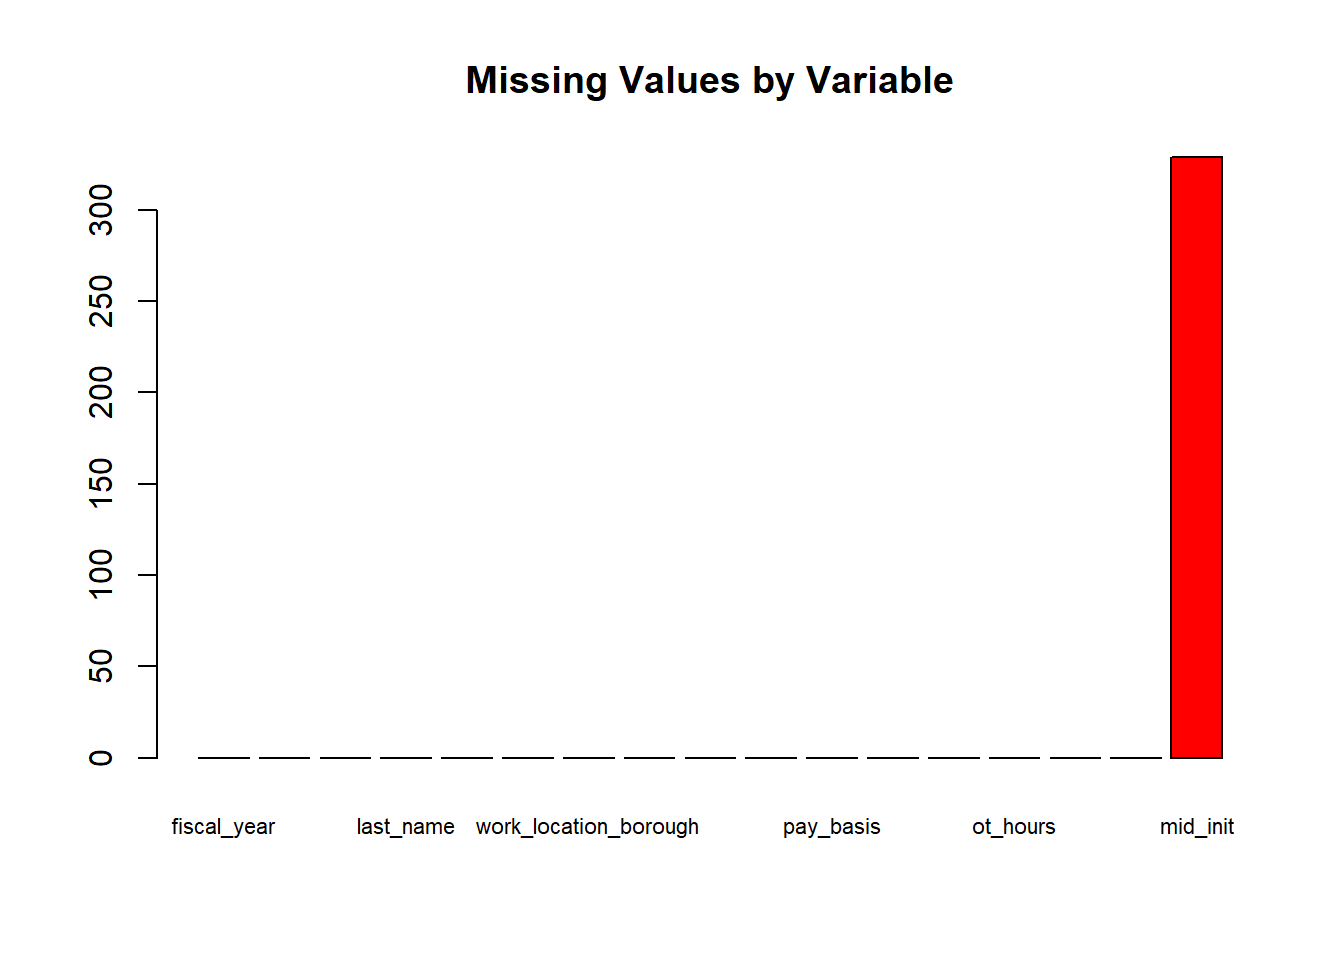
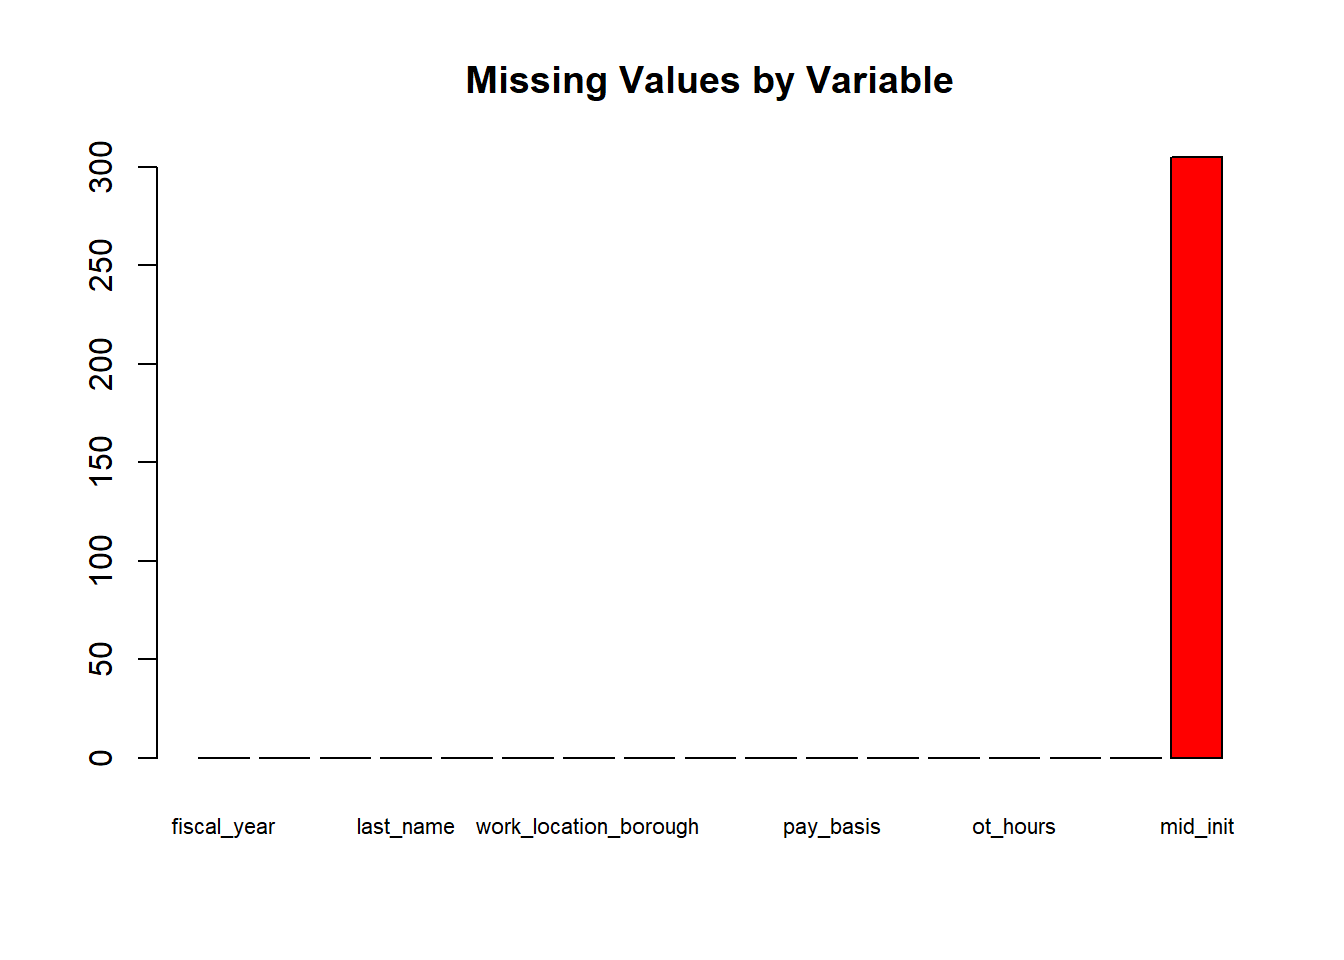
Changed Plots in Data Section

Changed region(s): [[0.0625, 0.1562, 0.0938, 0.5312], [0.0625, 0.6562, 0.0938, 0.7188], [0.0625, 0.5625, 0.0938, 0.625]]

diff --git a/docs/data.html b/docs/data.html
@@ -2,7 +2,7 @@
 <html xmlns="http://www.w3.org/1999/xhtml" lang="en" xml:lang="en"><head>
 
 <meta charset="utf-8">
-<meta name="generator" content="quarto-1.3.433">
+<meta name="generator" content="quarto-1.3.353">
 
 <meta name="viewport" content="width=device-width, initial-scale=1.0, user-scalable=yes">
 
@@ -91,8 +91,7 @@ pre > code.sourceCode > span > a:first-child::before { text-decoration: underlin
     "search-more-matches-text": "more matches in this document",
     "search-clear-button-title": "Clear",
     "search-detached-cancel-button-title": "Cancel",
-    "search-submit-button-title": "Submit",
-    "search-label": "Search"
+    "search-submit-button-title": "Submit"
   }
 }</script>
 
@@ -111,7 +110,7 @@ pre > code.sourceCode > span > a:first-child::before { text-decoration: underlin
       <nav class="quarto-page-breadcrumbs" aria-label="breadcrumb"><ol class="breadcrumb"><li class="breadcrumb-item"><a href="./data.html"><span class="chapter-number">2</span>&nbsp; <span class="chapter-title">Data</span></a></li></ol></nav>
       <a class="flex-grow-1" role="button" data-bs-toggle="collapse" data-bs-target="#quarto-sidebar,#quarto-sidebar-glass" aria-controls="quarto-sidebar" aria-expanded="false" aria-label="Toggle sidebar navigation" onclick="if (window.quartoToggleHeadroom) { window.quartoToggleHeadroom(); }">      
       </a>
-      <button type="button" class="btn quarto-search-button" aria-label="" onclick="window.quartoOpenSearch();">
+      <button type="button" class="btn quarto-search-button" aria-label="Search" onclick="window.quartoOpenSearch();">
         <i class="bi bi-search"></i>
       </button>
     </div>
@@ -125,7 +124,7 @@ pre > code.sourceCode > span > a:first-child::before { text-decoration: underlin
     <div class="sidebar-title mb-0 py-0">
       <a href="./">NYC Payroll Data Analysis</a> 
         <div class="sidebar-tools-main">
-    <a href="https://github.com/atharva-011/NYCPayroll" rel="" title="Source Code" class="quarto-navigation-tool px-1" aria-label="Source Code"><i class="bi bi-github"></i></a>
+    <a href="https://github.com/atharva-011/NYCPayroll" title="Source Code" class="quarto-navigation-tool px-1" aria-label="Source Code"><i class="bi bi-github"></i></a>
 </div>
     </div>
       </div>
@@ -210,7 +209,9 @@ pre > code.sourceCode > span > a:first-child::before { text-decoration: underlin
 <summary>Code</summary>
 <div class="sourceCode cell-code" id="cb1"><pre class="sourceCode r code-with-copy"><code class="sourceCode r"><span id="cb1-1"><a href="#cb1-1" aria-hidden="true" tabindex="-1"></a><span class="fu">library</span>(httr)</span>
 <span id="cb1-2"><a href="#cb1-2" aria-hidden="true" tabindex="-1"></a><span class="fu">library</span>(jsonlite)</span>
-<span id="cb1-3"><a href="#cb1-3" aria-hidden="true" tabindex="-1"></a><span class="fu">library</span>(knitr)</span></code><button title="Copy to Clipboard" class="code-copy-button"><i class="bi"></i></button></pre></div>
+<span id="cb1-3"><a href="#cb1-3" aria-hidden="true" tabindex="-1"></a><span class="fu">library</span>(knitr)</span>
+<span id="cb1-4"><a href="#cb1-4" aria-hidden="true" tabindex="-1"></a><span class="fu">library</span>(redav)</span>
+<span id="cb1-5"><a href="#cb1-5" aria-hidden="true" tabindex="-1"></a><span class="fu">library</span>(mi)</span></code><button title="Copy to Clipboard" class="code-copy-button"><i class="bi"></i></button></pre></div>
 </details>
 </div>
 <p>The data consists of 5.66 million rows (essentially 5.66 million municipal employees) and 17 columns. Every row basically tells us about the employee salary, their work location, agency, base pay, overtime (if any), etc.</p>
@@ -222,10 +223,10 @@ pre > code.sourceCode > span > a:first-child::before { text-decoration: underlin
 <span id="cb2-2"><a href="#cb2-2" aria-hidden="true" tabindex="-1"></a>data_url <span class="ot">&lt;-</span> <span class="st">"https://data.cityofnewyork.us/resource/k397-673e.json"</span></span>
 <span id="cb2-3"><a href="#cb2-3" aria-hidden="true" tabindex="-1"></a></span>
 <span id="cb2-4"><a href="#cb2-4" aria-hidden="true" tabindex="-1"></a>response <span class="ot">&lt;-</span> httr<span class="sc">::</span><span class="fu">GET</span>(<span class="at">url =</span> data_url)</span>
-<span id="cb2-5"><a href="#cb2-5" aria-hidden="true" tabindex="-1"></a>data <span class="ot">&lt;-</span> jsonlite<span class="sc">::</span><span class="fu">fromJSON</span>(<span class="fu">content</span>(response, <span class="st">"text"</span>, <span class="at">encoding =</span> <span class="st">"UTF-8"</span>))</span>
+<span id="cb2-5"><a href="#cb2-5" aria-hidden="true" tabindex="-1"></a>nyc_payroll_data <span class="ot">&lt;-</span> jsonlite<span class="sc">::</span><span class="fu">fromJSON</span>(<span class="fu">content</span>(response, <span class="st">"text"</span>, <span class="at">encoding =</span> <span class="st">"UTF-8"</span>))</span>
 <span id="cb2-6"><a href="#cb2-6" aria-hidden="true" tabindex="-1"></a></span>
 <span id="cb2-7"><a href="#cb2-7" aria-hidden="true" tabindex="-1"></a><span class="co"># Display columns of the dataset</span></span>
-<span id="cb2-8"><a href="#cb2-8" aria-hidden="true" tabindex="-1"></a><span class="fu">kable</span>(<span class="fu">data.frame</span>(<span class="at">Column_Names =</span> <span class="fu">names</span>(data)), <span class="st">"markdown"</span>)</span></code><button title="Copy to Clipboard" class="code-copy-button"><i class="bi"></i></button></pre></div>
+<span id="cb2-8"><a href="#cb2-8" aria-hidden="true" tabindex="-1"></a><span class="fu">kable</span>(<span class="fu">data.frame</span>(<span class="at">Column_Names =</span> <span class="fu">names</span>(nyc_payroll_data)), <span class="st">"markdown"</span>)</span></code><button title="Copy to Clipboard" class="code-copy-button"><i class="bi"></i></button></pre></div>
 </details>
 <div class="cell-output-display">
 <table class="table table-sm table-striped small">
@@ -306,13 +307,45 @@ pre > code.sourceCode > span > a:first-child::before { text-decoration: underlin
 <div class="cell">
 <details>
 <summary>Code</summary>
-<div class="sourceCode cell-code" id="cb3"><pre class="sourceCode r code-with-copy"><code class="sourceCode r"><span id="cb3-1"><a href="#cb3-1" aria-hidden="true" tabindex="-1"></a>missing_val <span class="ot">&lt;-</span> <span class="fu">colSums</span>(<span class="fu">is.na</span>(data))</span>
-<span id="cb3-2"><a href="#cb3-2" aria-hidden="true" tabindex="-1"></a><span class="fu">barplot</span>(missing_val, <span class="at">main =</span> <span class="st">"Missing Values by Variable"</span>, </span>
-<span id="cb3-3"><a href="#cb3-3" aria-hidden="true" tabindex="-1"></a>        <span class="at">col =</span> <span class="fu">ifelse</span>(missing_val <span class="sc">&gt;</span> <span class="dv">0</span>, <span class="st">"red"</span>, <span class="st">"green"</span>), </span>
-<span id="cb3-4"><a href="#cb3-4" aria-hidden="true" tabindex="-1"></a>        <span class="at">names.arg =</span> <span class="fu">names</span>(missing_val), <span class="at">cex.names =</span> <span class="fl">0.7</span>)</span></code><button title="Copy to Clipboard" class="code-copy-button"><i class="bi"></i></button></pre></div>
+<div class="sourceCode cell-code" id="cb3"><pre class="sourceCode r code-with-copy"><code class="sourceCode r"><span id="cb3-1"><a href="#cb3-1" aria-hidden="true" tabindex="-1"></a><span class="fu">colSums</span>(<span class="fu">is.na</span>(nyc_payroll_data)) <span class="sc">|&gt;</span> <span class="fu">sort</span>(<span class="at">decreasing =</span> <span class="cn">TRUE</span>)</span></code><button title="Copy to Clipboard" class="code-copy-button"><i class="bi"></i></button></pre></div>
+</details>
+<div class="cell-output cell-output-stdout">
+<pre><code>                  mid_init                fiscal_year 
+                       305                          0 
+            payroll_number                agency_name 
+                         0                          0 
+                 last_name                 first_name 
+                         0                          0 
+         agency_start_date      work_location_borough 
+                         0                          0 
+         title_description leave_status_as_of_june_30 
+                         0                          0 
+               base_salary                  pay_basis 
+                         0                          0 
+             regular_hours         regular_gross_paid 
+                         0                          0 
+                  ot_hours              total_ot_paid 
+                         0                          0 
+           total_other_pay 
+                         0 </code></pre>
+</div>
+</div>
+<div class="cell">
+<details>
+<summary>Code</summary>
+<div class="sourceCode cell-code" id="cb5"><pre class="sourceCode r code-with-copy"><code class="sourceCode r"><span id="cb5-1"><a href="#cb5-1" aria-hidden="true" tabindex="-1"></a><span class="fu">plot_missing</span>(nyc_payroll_data, <span class="at">percent =</span> <span class="cn">FALSE</span>)</span></code><button title="Copy to Clipboard" class="code-copy-button"><i class="bi"></i></button></pre></div>
 </details>
 <div class="cell-output-display">
-<p><img src="data_files/figure-html/unnamed-chunk-3-1.png" class="img-fluid" width="672"></p>
+<p><img src="data_files/figure-html/unnamed-chunk-4-1.png" class="img-fluid" width="2880"></p>
+</div>
+</div>
+<div class="cell">
+<details>
+<summary>Code</summary>
+<div class="sourceCode cell-code" id="cb6"><pre class="sourceCode r code-with-copy"><code class="sourceCode r"><span id="cb6-1"><a href="#cb6-1" aria-hidden="true" tabindex="-1"></a><span class="fu">missing_data.frame</span>(nyc_payroll_data) <span class="sc">|&gt;</span> <span class="fu">image</span>()</span></code><button title="Copy to Clipboard" class="code-copy-button"><i class="bi"></i></button></pre></div>
+</details>
+<div class="cell-output-display">
+<p><img src="data_files/figure-html/unnamed-chunk-5-1.png" class="img-fluid" width="672"></p>
 </div>
 </div>
 

diff --git a/docs/index.html b/docs/index.html
@@ -2,13 +2,13 @@
 <html xmlns="http://www.w3.org/1999/xhtml" lang="en" xml:lang="en"><head>
 
 <meta charset="utf-8">
-<meta name="generator" content="quarto-1.3.433">
+<meta name="generator" content="quarto-1.3.353">
 
 <meta name="viewport" content="width=device-width, initial-scale=1.0, user-scalable=yes">
 
 <meta name="author" content="Atharva Kulkarni (ak5070)">
 <meta name="author" content="Rameshwar Garg (rg3553)">
-<meta name="dcterms.date" content="2023-11-28">
+<meta name="dcterms.date" content="2023-11-29">
 
 <title>NYC Payroll Data Analysis</title>
 <style>
@@ -59,8 +59,7 @@ ul.task-list li input[type="checkbox"] {
     "search-more-matches-text": "more matches in this document",
     "search-clear-button-title": "Clear",
     "search-detached-cancel-button-title": "Cancel",
-    "search-submit-button-title": "Submit",
-    "search-label": "Search"
+    "search-submit-button-title": "Submit"
   }
 }</script>
 
@@ -79,7 +78,7 @@ ul.task-list li input[type="checkbox"] {
       <nav class="quarto-page-breadcrumbs" aria-label="breadcrumb"><ol class="breadcrumb"><li class="breadcrumb-item"><a href="./index.html"><span class="chapter-number">1</span>&nbsp; <span class="chapter-title">Introduction</span></a></li></ol></nav>
       <a class="flex-grow-1" role="button" data-bs-toggle="collapse" data-bs-target="#quarto-sidebar,#quarto-sidebar-glass" aria-controls="quarto-sidebar" aria-expanded="false" aria-label="Toggle sidebar navigation" onclick="if (window.quartoToggleHeadroom) { window.quartoToggleHeadroom(); }">      
       </a>
-      <button type="button" class="btn quarto-search-button" aria-label="" onclick="window.quartoOpenSearch();">
+      <button type="button" class="btn quarto-search-button" aria-label="Search" onclick="window.quartoOpenSearch();">
         <i class="bi bi-search"></i>
       </button>
     </div>
@@ -93,7 +92,7 @@ ul.task-list li input[type="checkbox"] {
     <div class="sidebar-title mb-0 py-0">
       <a href="./">NYC Payroll Data Analysis</a> 
         <div class="sidebar-tools-main">
-    <a href="https://github.com/atharva-011/NYCPayroll" rel="" title="Source Code" class="quarto-navigation-tool px-1" aria-label="Source Code"><i class="bi bi-github"></i></a>
+    <a href="https://github.com/atharva-011/NYCPayroll" title="Source Code" class="quarto-navigation-tool px-1" aria-label="Source Code"><i class="bi bi-github"></i></a>
 </div>
     </div>
       </div>
@@ -171,7 +170,7 @@ ul.task-list li input[type="checkbox"] {
     <div>
     <div class="quarto-title-meta-heading">Published</div>
     <div class="quarto-title-meta-contents">
-      <p class="date">November 28, 2023</p>
+      <p class="date">November 29, 2023</p>
     </div>
   </div>
   

diff --git a/docs/results.html b/docs/results.html
@@ -2,7 +2,7 @@
 <html xmlns="http://www.w3.org/1999/xhtml" lang="en" xml:lang="en"><head>
 
 <meta charset="utf-8">
-<meta name="generator" content="quarto-1.3.433">
+<meta name="generator" content="quarto-1.3.353">
 
 <meta name="viewport" content="width=device-width, initial-scale=1.0, user-scalable=yes">
 
@@ -57,8 +57,7 @@ ul.task-list li input[type="checkbox"] {
     "search-more-matches-text": "more matches in this document",
     "search-clear-button-title": "Clear",
     "search-detached-cancel-button-title": "Cancel",
-    "search-submit-button-title": "Submit",
-    "search-label": "Search"
+    "search-submit-button-title": "Submit"
   }
 }</script>
 
@@ -77,7 +76,7 @@ ul.task-list li input[type="checkbox"] {
       <nav class="quarto-page-breadcrumbs" aria-label="breadcrumb"><ol class="breadcrumb"><li class="breadcrumb-item"><a href="./results.html"><span class="chapter-number">3</span>&nbsp; <span class="chapter-title">Results</span></a></li></ol></nav>
       <a class="flex-grow-1" role="button" data-bs-toggle="collapse" data-bs-target="#quarto-sidebar,#quarto-sidebar-glass" aria-controls="quarto-sidebar" aria-expanded="false" aria-label="Toggle sidebar navigation" onclick="if (window.quartoToggleHeadroom) { window.quartoToggleHeadroom(); }">      
       </a>
-      <button type="button" class="btn quarto-search-button" aria-label="" onclick="window.quartoOpenSearch();">
+      <button type="button" class="btn quarto-search-button" aria-label="Search" onclick="window.quartoOpenSearch();">
         <i class="bi bi-search"></i>
       </button>
     </div>
@@ -91,7 +90,7 @@ ul.task-list li input[type="checkbox"] {
     <div class="sidebar-title mb-0 py-0">
       <a href="./">NYC Payroll Data Analysis</a> 
         <div class="sidebar-tools-main">
-    <a href="https://github.com/atharva-011/NYCPayroll" rel="" title="Source Code" class="quarto-navigation-tool px-1" aria-label="Source Code"><i class="bi bi-github"></i></a>
+    <a href="https://github.com/atharva-011/NYCPayroll" title="Source Code" class="quarto-navigation-tool px-1" aria-label="Source Code"><i class="bi bi-github"></i></a>
 </div>
     </div>
       </div>
